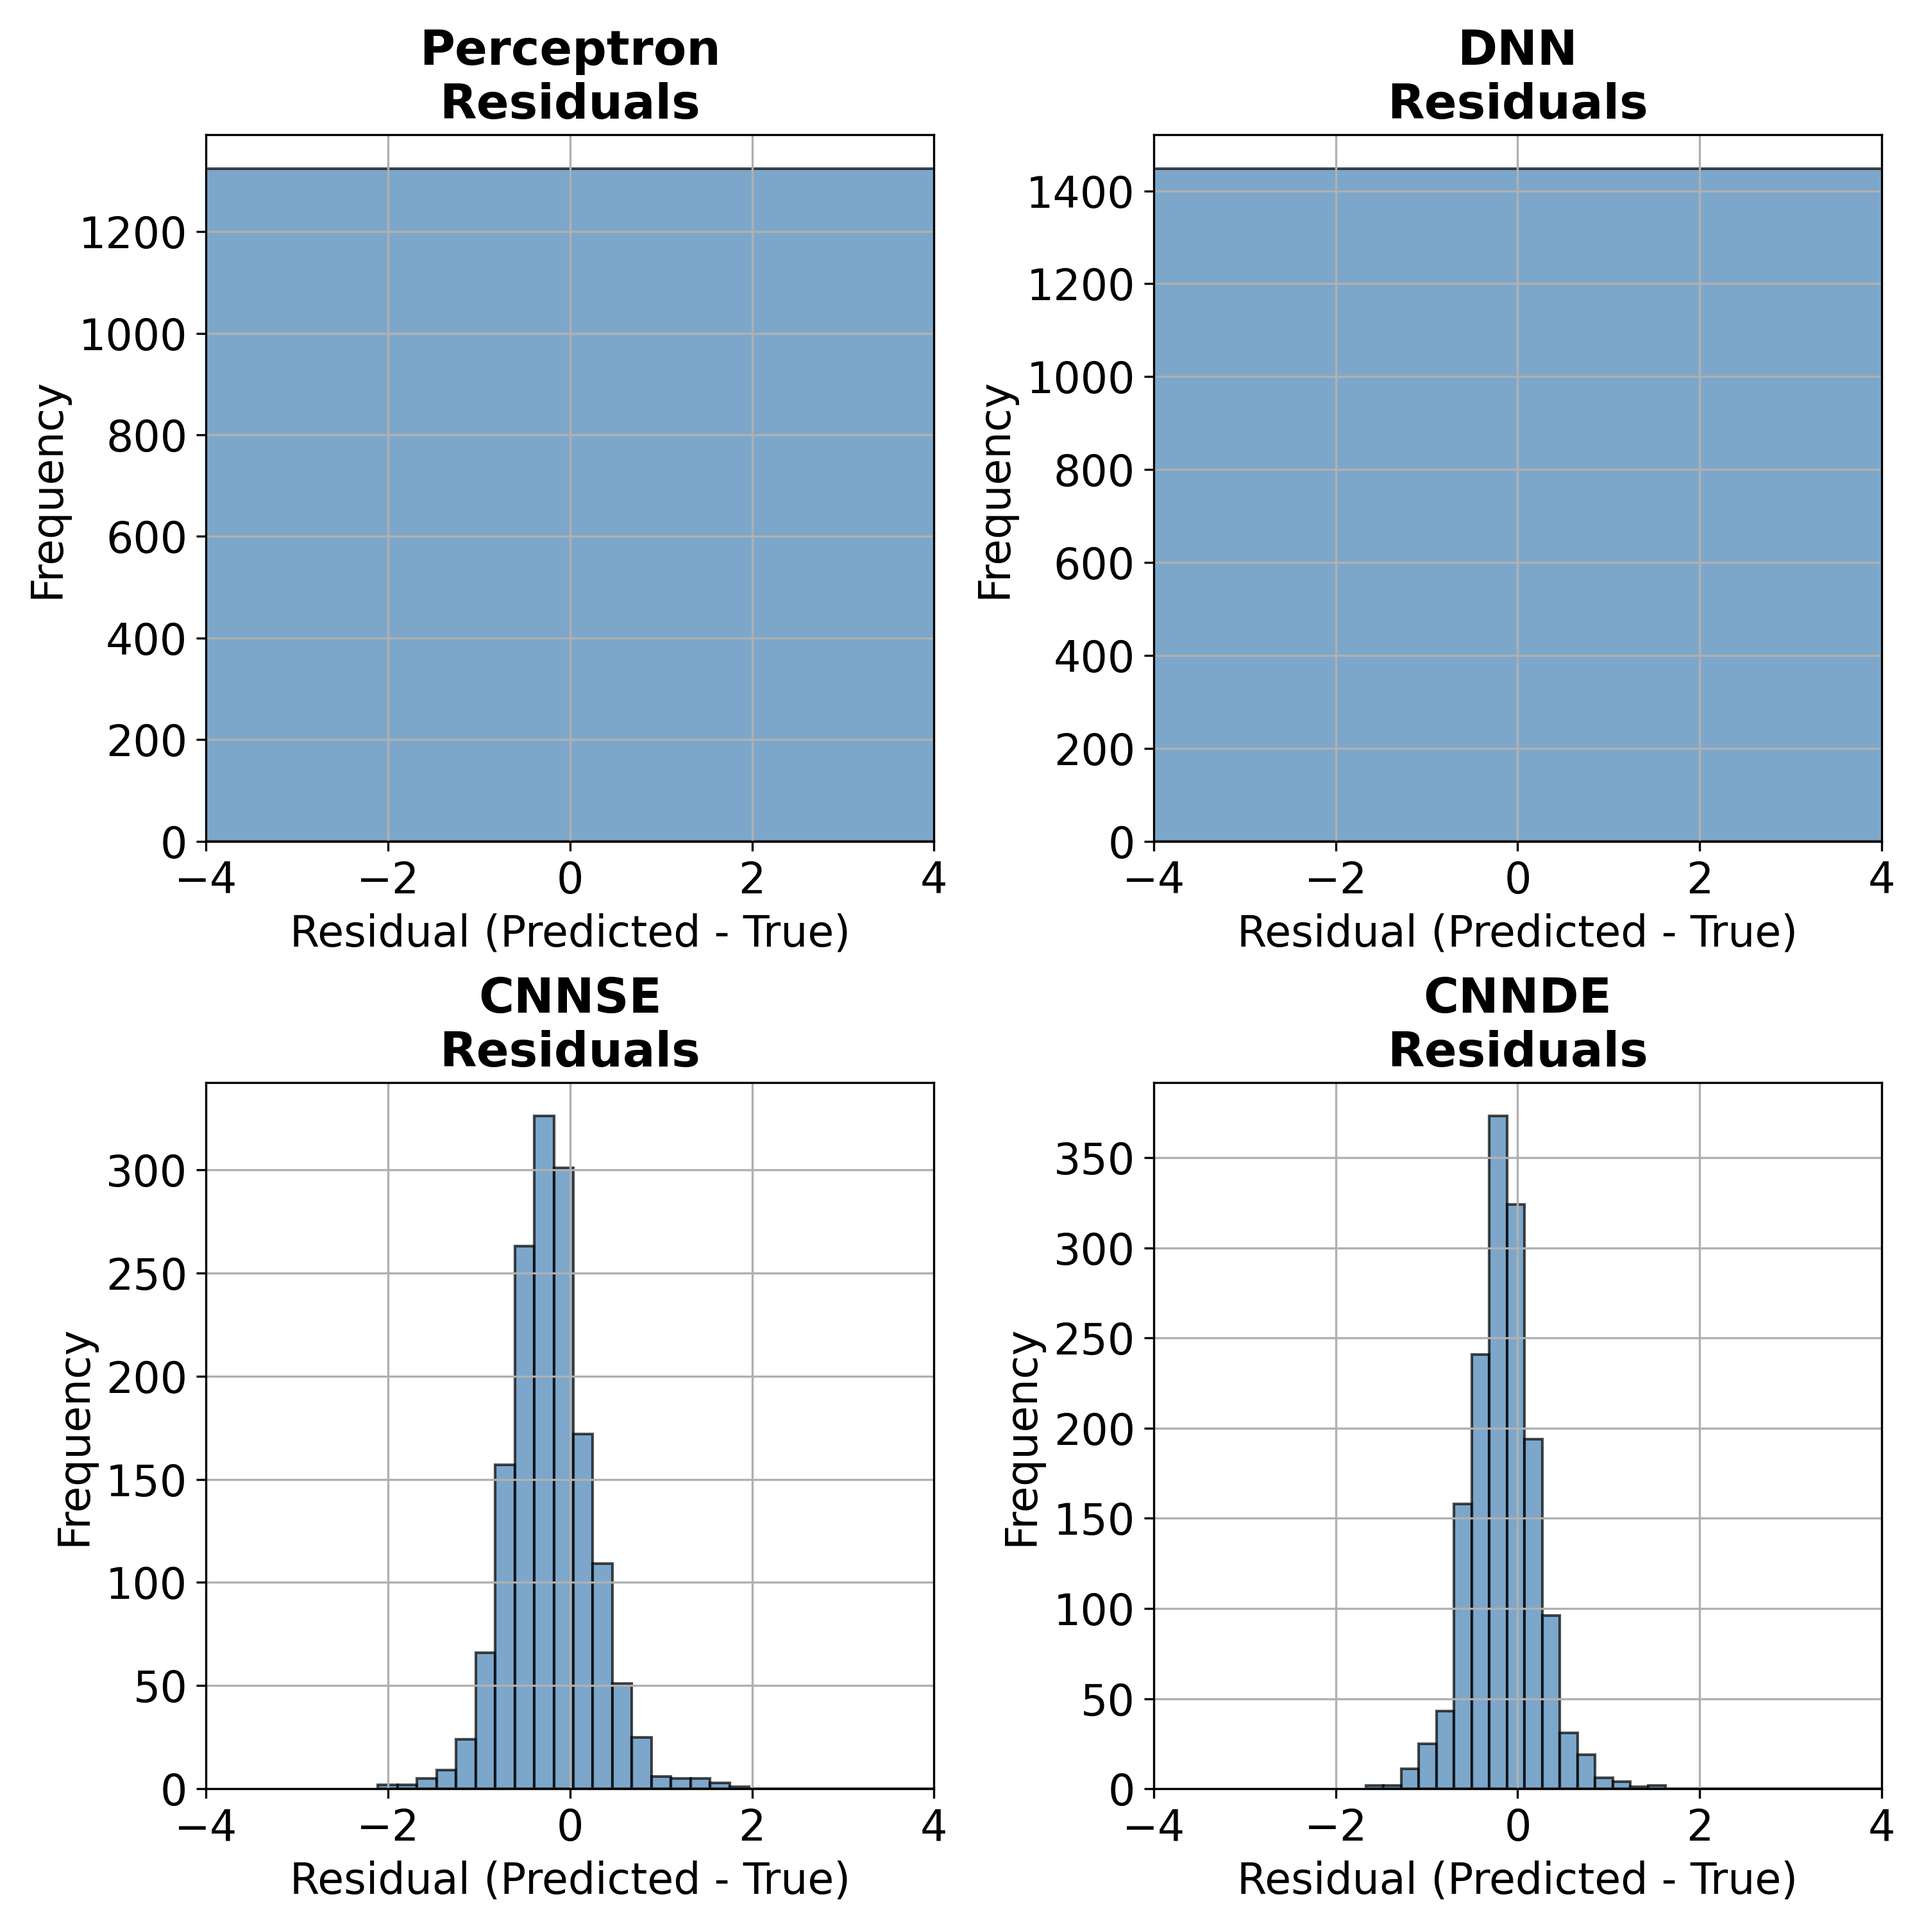
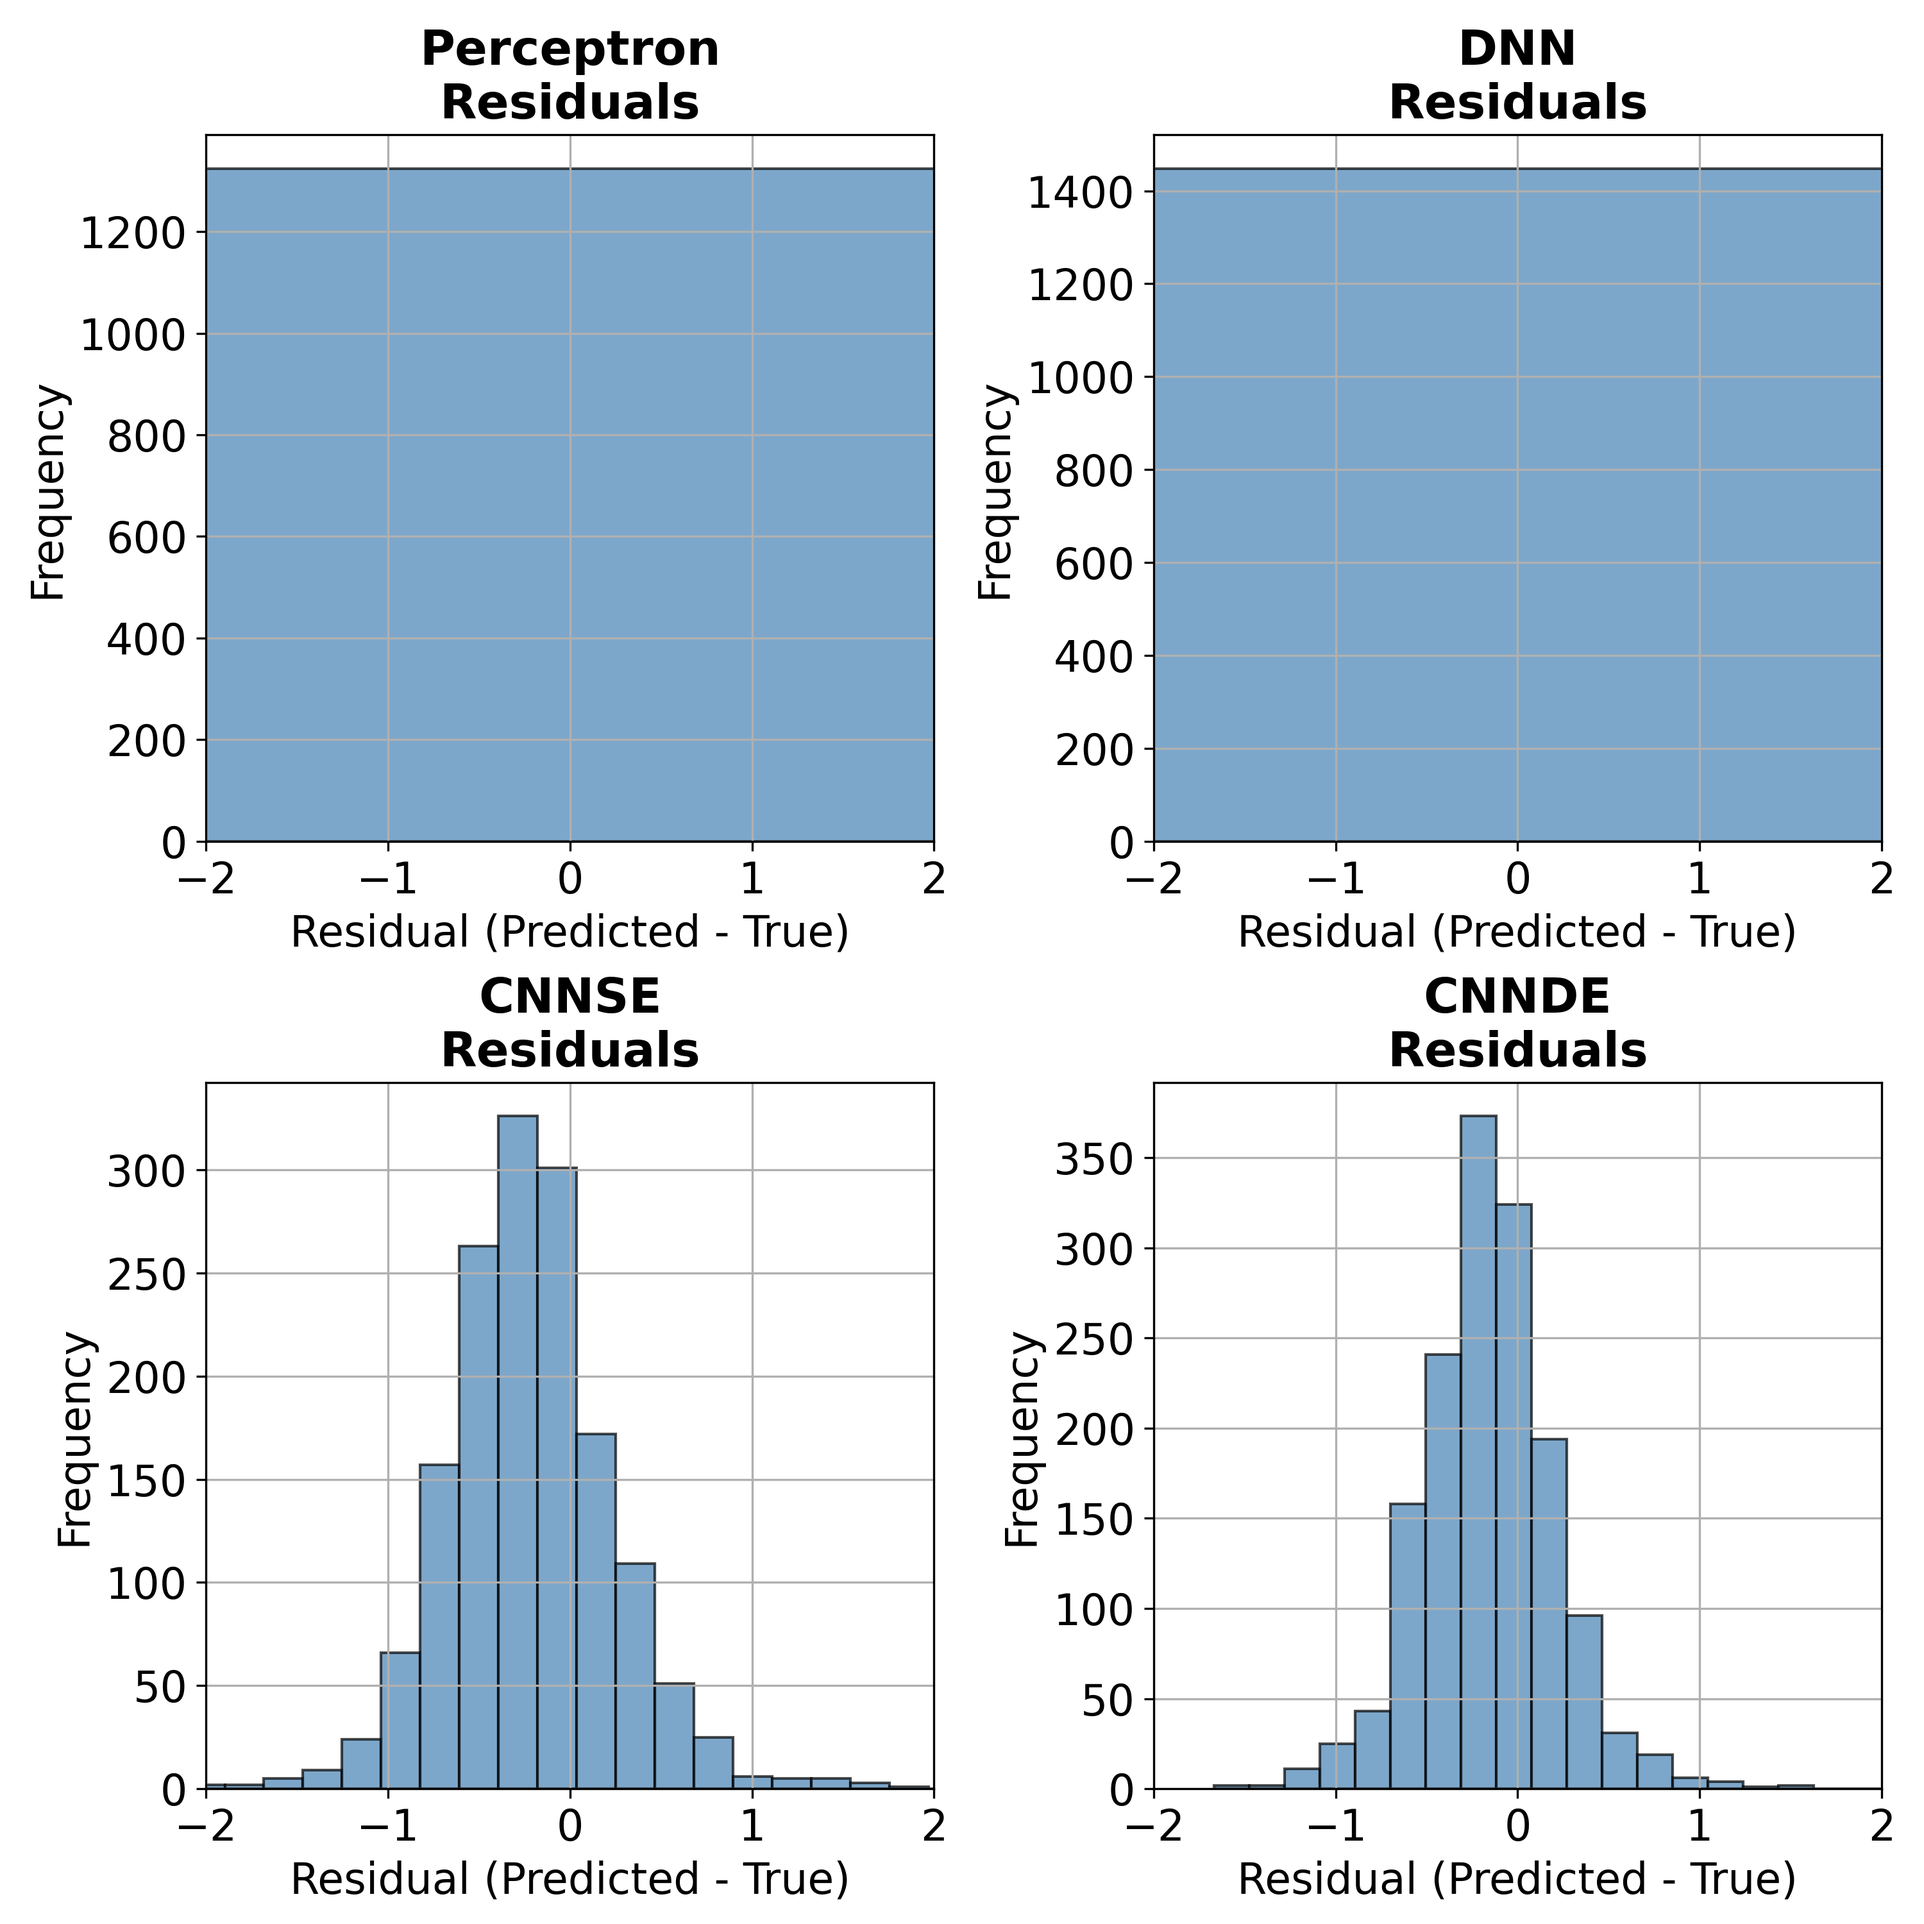
DM

diff --git a/DeepML/plot.py b/DeepML/plot.py
@@ -1268,4 +1268,5 @@ if __name__ == "__main__":
     plot_magnitude_model_residuals(models_dict=model_outputs,
                                    magnitude_scaler=magnitude_scaler,
                                    save_path=save_path,
-                                   limits=(-4,4))
+                                #    limits=(-2500,2500)
+                                   limits=(-2,2)                                   )
